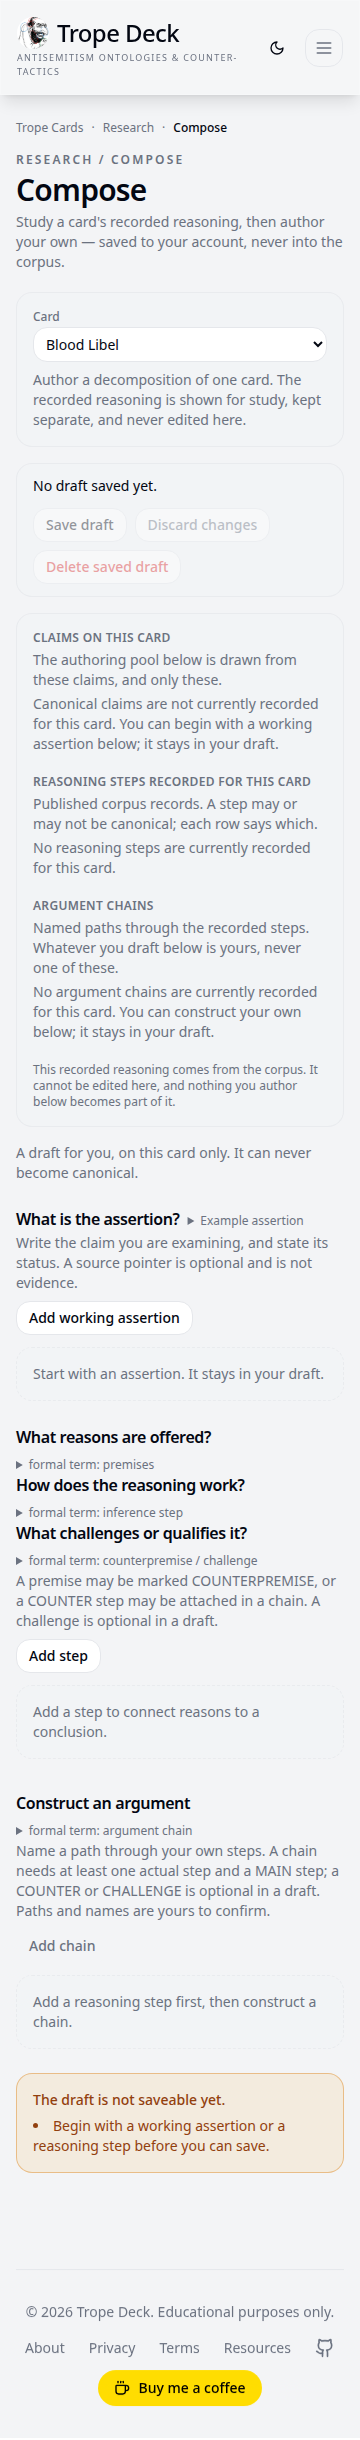
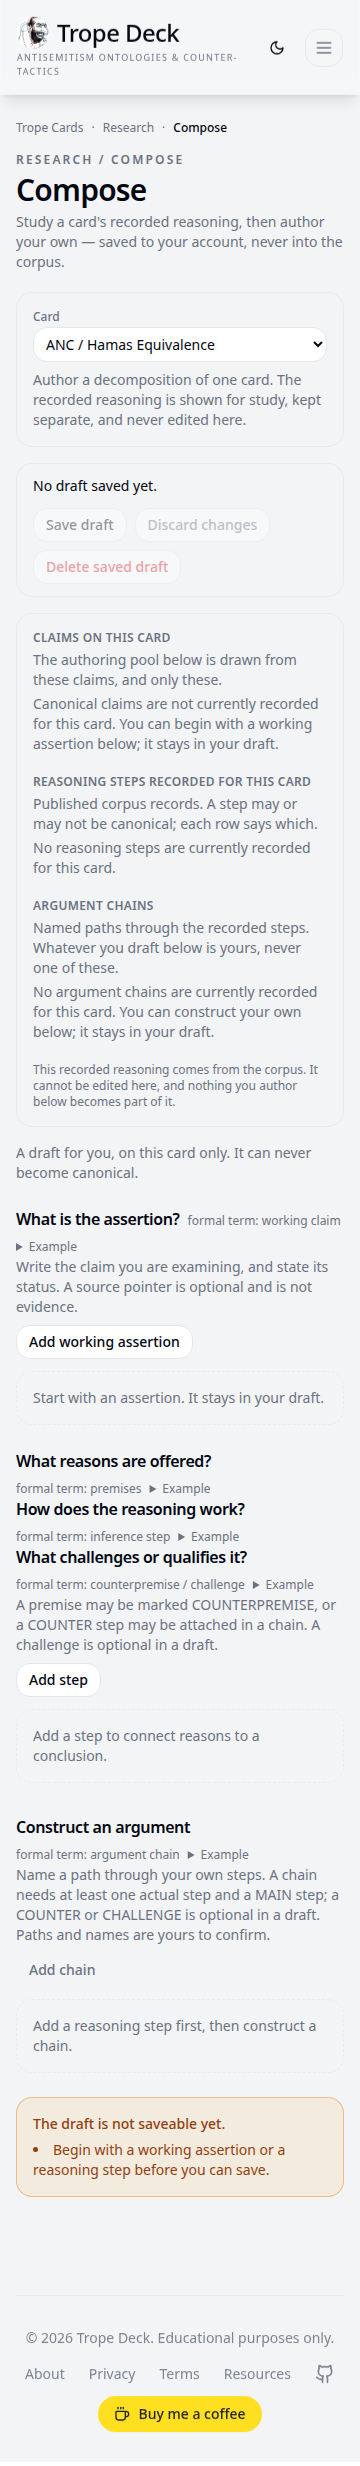
fix(compose): keep formal terms visible with per-question examples

diff --git a/src/compose/compose-editor.tsx b/src/compose/compose-editor.tsx
@@ -936,12 +936,12 @@ function WorkingClaimCard({
 }
 
 /**
- * A plain-language question with progressive disclosure.
+ * A plain-language question with its formal term visible and a concrete example on demand.
  *
  * @param label The researcher-facing question.
- * @param formal The ontology term behind it.
- * @param example An illustrative assertion shown instead of the ontology note when provided.
- * @returns A labelled heading with progressive disclosure.
+ * @param formal The ontology term behind it, always visible as help text.
+ * @param example A concrete illustration disclosed under "Example".
+ * @returns A labelled heading with visible help text and a collapsed example.
  */
 function QuestionHeading({
   label,
@@ -950,34 +950,26 @@ function QuestionHeading({
 }: {
   label: string
   formal: string
-  example?: string
+  example: string
 }) {
   return (
     <div className="flex flex-wrap items-baseline gap-2">
       <h3 className="text-base font-semibold text-foreground">{label}</h3>
-      {example ? (
-        <details
-          className="text-xs text-muted-foreground"
-          data-testid="assertion-example"
-        >
-          <summary className="cursor-pointer">Example assertion</summary>
-          <blockquote className="mt-1 border-l-2 border-muted-foreground/40 pl-3 italic text-muted-foreground">
-            Example: “{example}”
-          </blockquote>
-          <p className="mt-0.5">
-            Illustration only — not pre-filled, and not an assertion about this
-            card.
-          </p>
-        </details>
-      ) : (
-        <details className="text-xs text-muted-foreground">
-          <summary className="cursor-pointer">formal term: {formal}</summary>
-          <p className="mt-1">
-            Used only in the draft vocabulary; it never changes the canonical
-            ontology.
-          </p>
-        </details>
-      )}
+      <span className="text-xs text-muted-foreground">
+        formal term: {formal}
+      </span>
+      <details
+        className="text-xs text-muted-foreground"
+        data-testid="question-example"
+      >
+        <summary className="cursor-pointer">Example</summary>
+        <blockquote className="mt-1 border-l-2 border-muted-foreground/40 pl-3 italic text-muted-foreground">
+          Example: “{example}”
+        </blockquote>
+        <p className="mt-0.5">
+          Illustration only — not pre-filled, and not drawn from this card.
+        </p>
+      </details>
     </div>
   )
 }
@@ -1063,14 +1055,17 @@ export function ComposeEditor({
             <QuestionHeading
               label="What reasons are offered?"
               formal="premises"
+              example="Applications now pass through two review stages instead of four."
             />
             <QuestionHeading
               label="How does the reasoning work?"
               formal="inference step"
+              example="Fewer review stages mean faster decisions; this rule removed two stages, so waiting times should fall."
             />
             <QuestionHeading
               label="What challenges or qualifies it?"
               formal="counterpremise / challenge"
+              example="Longer waiting times may reflect staffing levels rather than the number of form stages."
             />
             <p
               className="mt-0.5 text-sm text-muted-foreground"
@@ -1162,6 +1157,7 @@ export function ComposeEditor({
             <QuestionHeading
               label="Construct an argument"
               formal="argument chain"
+              example="Simplification → fewer review stages → faster decisions → shorter waiting times."
             />
             <p className="mt-0.5 text-sm text-muted-foreground">
               Name a path through your own steps. A chain needs at least one

diff --git a/src/compose/compose-editor.test.tsx b/src/compose/compose-editor.test.tsx
@@ -245,36 +245,61 @@ describe('ComposeEditor', () => {
     assert.ok(html.includes('Add chain'))
   })
 
-  it('uses the approved questions with a concrete example under the assertion prompt', () => {
+  it('keeps every formal term visible and offers an example disclosure for each question', () => {
     const html = render(treeFor(EMPTY_DRAFT))
-    for (const label of [
-      'What is the assertion?',
-      'What reasons are offered?',
-      'How does the reasoning work?',
-      'What challenges or qualifies it?',
-      'Construct an argument',
-    ]) {
-      assert.ok(html.includes(label), `missing label: ${label}`)
+    const questions = [
+      {
+        label: 'What is the assertion?',
+        formal: 'working claim',
+        example:
+          'The new rule reduced waiting times because it made the application process simpler.',
+      },
+      {
+        label: 'What reasons are offered?',
+        formal: 'premises',
+        example:
+          'Applications now pass through two review stages instead of four.',
+      },
+      {
+        label: 'How does the reasoning work?',
+        formal: 'inference step',
+        example:
+          'Fewer review stages mean faster decisions; this rule removed two stages, so waiting times should fall.',
+      },
+      {
+        label: 'What challenges or qualifies it?',
+        formal: 'counterpremise / challenge',
+        example:
+          'Longer waiting times may reflect staffing levels rather than the number of form stages.',
+      },
+      {
+        label: 'Construct an argument',
+        formal: 'argument chain',
+        example:
+          'Simplification → fewer review stages → faster decisions → shorter waiting times.',
+      },
+    ]
+
+    for (const [index, question] of questions.entries()) {
+      const start = html.indexOf(question.label)
+      const end =
+        index + 1 < questions.length
+          ? html.indexOf(questions[index + 1].label)
+          : html.length
+      assert.ok(start >= 0, `missing label: ${question.label}`)
+      assert.ok(end > start, `missing section end after: ${question.label}`)
+      const section = html.slice(start, end)
+      assert.ok(section.includes(`formal term: ${question.formal}`))
+      assert.ok(section.includes('data-testid="question-example"'))
+      assert.ok(section.includes('>Example</summary>'))
+      assert.ok(section.includes('<blockquote'))
+      assert.ok(section.includes(`Example: “${question.example}”`))
+      assert.ok(section.includes('Illustration only'))
+      assert.ok(!section.includes('Example assertion'))
     }
 
-    const assertionSection = html.slice(
-      html.indexOf('What is the assertion?'),
-      html.indexOf('What reasons are offered?'),
-    )
-    assert.ok(assertionSection.includes('data-testid="assertion-example"'))
-    assert.ok(assertionSection.includes('Example assertion'))
-    assert.ok(assertionSection.includes('<blockquote'))
-    assert.ok(
-      assertionSection.includes(
-        'Example: “The new rule reduced waiting times because it made the application process simpler.”',
-      ),
-    )
-    assert.ok(assertionSection.includes('not an assertion about this card'))
-    assert.ok(!assertionSection.includes('formal term: working claim'))
-    assert.ok(!assertionSection.includes('canonical ontology'))
-
-    // Formal terms remain available for the other four questions.
-    assert.ok(html.includes('formal term: argument chain'))
+    assert.ok(!html.includes('Used only in the draft vocabulary'))
+    assert.ok(!html.includes('never changes the canonical ontology'))
   })
 
   it('offers a short working start without repeating the read panel’s empty explanation', () => {

diff --git a/docs/COMPOSE_DESIGN_HANDOFF.md b/docs/COMPOSE_DESIGN_HANDOFF.md
@@ -261,11 +261,13 @@ Intro: `A draft for you, on this card only. It can never become canonical.`
 
 Empty editor invitation: `Start with an assertion. It stays in your draft.` The single `not currently recorded` explanation lives in the read panel (Step 2), not in every editor section.
 
-Prompt disclosure (approved refinement):
+Formal term help text: `formal term: working claim`, always visible beside the heading.
 
-- Summary: `Example assertion`
+Example disclosure (collapsed by default):
+
+- Summary: `Example`
 - Body: a muted, italic `<blockquote>` reading `Example: “The new rule reduced waiting times because it made the application process simpler.”`
-- Caveat: `Illustration only — not pre-filled, and not an assertion about this card.`
+- Caveat: `Illustration only — not pre-filled, and not drawn from this card.`
 
 Helper copy: `Write the claim you are examining, and state its status. A source pointer is optional and is not evidence.`
 
@@ -284,7 +286,12 @@ Remove button label: `Remove working assertion {label || localId}`. Removing a w
 
 ### Step 5 — What reasons are offered? / How does the reasoning work?
 
-Disclosures: `formal term: premises`, `formal term: inference step` with `Used only in the draft vocabulary; it never changes the canonical ontology.`
+Formal term help text: `formal term: premises`, `formal term: inference step`, always visible. Each has a collapsed `Example` disclosure:
+
+- Premises: `Applications now pass through two review stages instead of four.`
+- Inference step: `Fewer review stages mean faster decisions; this rule removed two stages, so waiting times should fall.`
+
+The redundant `Used only in the draft vocabulary; it never changes the canonical ontology.` note is removed.
 
 Primary action: `Add step`.
 
@@ -303,7 +310,7 @@ Primary action: `Add step`.
 
 ### Step 6 — What challenges or qualifies it?
 
-Disclosure: `formal term: counterpremise / challenge`. Guidance line: `A premise may be marked COUNTERPREMISE, or a COUNTER step may be attached in a chain. A challenge is optional in a draft.` This is **guidance only** in S1; there is no separate `Add challenge` button or challenge card.
+Formal term help text: `formal term: counterpremise / challenge`, always visible. Collapsed `Example` disclosure: `Longer waiting times may reflect staffing levels rather than the number of form stages.` Guidance line: `A premise may be marked COUNTERPREMISE, or a COUNTER step may be attached in a chain. A challenge is optional in a draft.` This is **guidance only** in S1; there is no separate `Add challenge` button or challenge card.
 
 Challenge semantics are expressed through:
 
@@ -314,7 +321,7 @@ A challenge is advisory: the save gate never fabricates one and never requires o
 
 ### Step 7 — Construct an argument
 
-Disclosure: `formal term: argument chain`.
+Formal term help text: `formal term: argument chain`, always visible. Collapsed `Example` disclosure: `Simplification → fewer review stages → faster decisions → shorter waiting times.`
 
 Helper: `Name a path through your own steps. A chain needs at least one actual step and a MAIN step; a COUNTER or CHALLENGE is optional in a draft. Paths and names are yours to confirm.`
 
@@ -489,7 +496,7 @@ Server validation additionally resolves every canonical ref with `findClaimByRef
 
 The UI/UX review answered the original eight questions. The maintainer-authorized Bucket A pass addressed Q2, Q4, Q7 and Q8, plus the a11y defect and disabled-action styling:
 
-- **Q2 — example placement:** the example is a muted, italic quote block, collapsed by default, with the “illustration only” caveat.
+- **Q2 — example placement:** every question keeps its `formal term:` help text visible and adds a collapsed `Example` disclosure with a muted, italic quote block and the “illustration only” caveat.
 - **Q4 — challenge guidance:** a one-line pointer names the existing `COUNTERPREMISE` premise role and `COUNTER` chain-step role; no new control was added and no challenge is required.
 - **Q7 — terminology:** the read panel is titled “Recorded reasoning”; step rows use `Canonical` / `Not yet canonical`, with the raw `is_canonical` boolean behind a disclosure.
 - **Q8 — empty-state tone:** one “not currently recorded” explanation remains in the read panel; editor sections use short invitations such as “Start with an assertion.”
